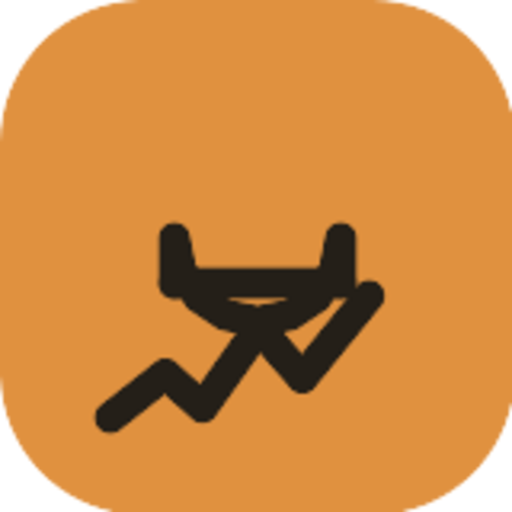
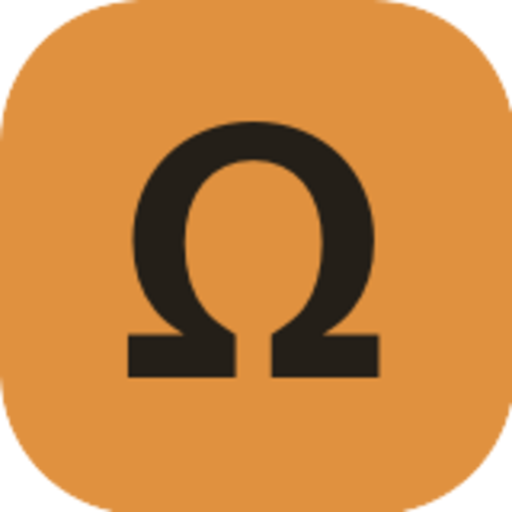
fix(ohmz): draw the Ω as a real glyph, not a squiggle
The hand-drawn omega path rendered as a blob at small sizes. Use a real Ω text
glyph in the mark and the favicon: the tile now reads as a clean Ω at 16-96px.
The nav logo keeps a small usage line under the glyph; the favicon is the glyph
alone for legibility.

Changed region(s): [[0.1875, 0.2188, 0.75, 0.8438]]

diff --git a/internal/site/src/components/logo.tsx b/internal/site/src/components/logo.tsx
@@ -9,13 +9,26 @@ export function Logo({ className }: { className?: string }) {
 			aria-label="OhmzMaintainer"
 		>
 			<rect width="40" height="40" rx="11" fill="var(--color-primary)" />
-			<g fill="none" stroke="var(--color-primary-foreground)" strokeWidth="2.4" strokeLinecap="round" strokeLinejoin="round">
-				{/* omega: a circle open at the bottom, two feet and a bar */}
-				<path d="M13.5 22V18.5a6.5 6.5 0 0 0 13 0V22" />
-				<path d="M13.5 22h13" />
-				{/* usage line */}
-				<path d="M8.5 32.5l4.3-3.4 2.9 2.6 4.4-6.2 3.4 3.9 5.2-6.4" opacity="0.92" />
-			</g>
+			<text
+				x="20"
+				y="25"
+				textAnchor="middle"
+				fontFamily="ui-sans-serif, system-ui, -apple-system, 'Segoe UI', Helvetica, Arial, sans-serif"
+				fontSize="22"
+				fontWeight="700"
+				fill="var(--color-primary-foreground)"
+			>
+				Ω
+			</text>
+			<path
+				d="M9.5 35l4.6-3.3 3 2.5 4.6-5.6 3.4 3.6 5.3-6.1"
+				fill="none"
+				stroke="var(--color-primary-foreground)"
+				strokeWidth="2.2"
+				strokeLinecap="round"
+				strokeLinejoin="round"
+				opacity="0.85"
+			/>
 		</svg>
 	)
 }
